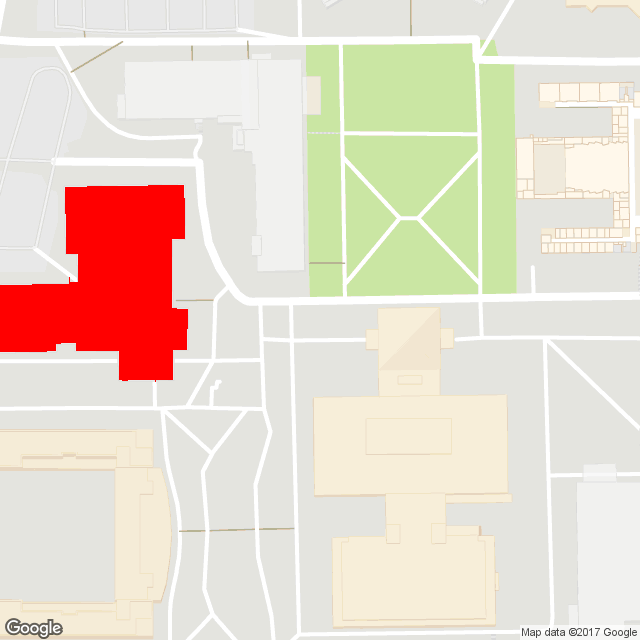
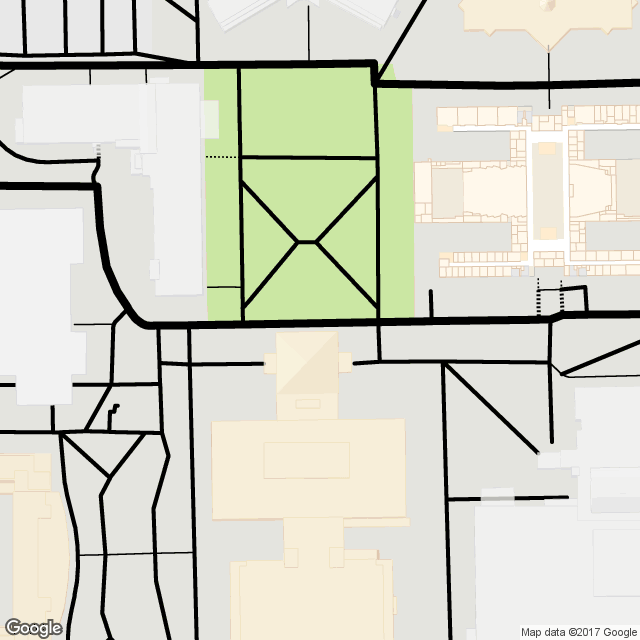
fewa

diff --git a/src/server/processing/ColorOperations.java b/src/server/processing/ColorOperations.java
@@ -111,8 +111,7 @@ public class ColorOperations {
 			if (currRGB == Config.MAPS_BUILDING_RGB)
 				return;
 			
-		} while (currRGB == Config.MAPS_BACKGROUND_RGB || currRGB == Config.MAPS_GRASS_RGB
-				|| currRGB == Config.MAPS_NORMALPATH_RGB);
+		} while ( !Tools.colorIsProbablyBuilding(currRGB, Config.FILLCOLOR_RGB_TOLERANCE));
 		currX--;
 		currY--;
 
@@ -131,12 +130,13 @@ public class ColorOperations {
 			currY = yStack.pop();
 
 			// Above
-			if (currY + 1 > target.getHeight() - 1 || visited[currX][currY + 1] != 2) {
+			if (currY + 1 < target.getHeight() && visited[currX][currY + 1] == 0) {
 				tolerated = false;
 
 				for (int y = currY + 1; y <= currY + 1 + Config.FILLCOLOR_PIXELDIM_TOLERANCE; y++) {
 					if (y > target.getHeight() - 1)
 						break;
+					/*
 					if (visited[currX][y] > 0) {
 						if (visited[currX][y] == 2) {
 							tolerated = true;
@@ -144,15 +144,16 @@ public class ColorOperations {
 						} else
 							continue;
 					}
+					*/
 					neighborRGB = orig.getRGB(currX, y);
-					if (Tools.colorIsProbablyNotBuilding(neighborRGB, Config.FILLCOLOR_RGB_TOLERANCE)) {
+					if (Tools.colorIsProbablyBuilding(neighborRGB, Config.FILLCOLOR_RGB_TOLERANCE)) {
 						tolerated = true;
 						break;
 					}
 				}
 
 				if (tolerated) {
-					target.setRGB(currX, currY + 1, fillRGB);
+					//target.setRGB(currX, currY + 1, fillRGB);
 					visited[currX][currY + 1] = 2;
 					xStack.push(currX);
 					yStack.push(currY + 1);
@@ -161,11 +162,12 @@ public class ColorOperations {
 			}
 
 			// Below
-			if (currY - 1 < 0 || visited[currX][currY - 1] != 2) {
+			if (currY - 1 > -1 &&  visited[currX][currY - 1]  == 0) {
 				tolerated = false;
 				for (int y = currY - 1; y >= currY - 1 - Config.FILLCOLOR_PIXELDIM_TOLERANCE; y--) {
 					if (y < 0)
 						break;
+					/*
 					if (visited[currX][y] > 0) {
 						if (visited[currX][y] == 2) {
 							tolerated = true;
@@ -173,15 +175,16 @@ public class ColorOperations {
 						} else
 							continue;
 					}
+					*/
 					neighborRGB = orig.getRGB(currX, y);
-					if (Tools.colorIsProbablyNotBuilding(neighborRGB, Config.FILLCOLOR_RGB_TOLERANCE)) {
+					if (Tools.colorIsProbablyBuilding(neighborRGB, Config.FILLCOLOR_RGB_TOLERANCE)) {
 						tolerated = true;
 						break;
 					}
 				}
 
 				if (tolerated) {
-					target.setRGB(currX, currY - 1, fillRGB);
+					//target.setRGB(currX, currY - 1, fillRGB);
 					visited[currX][currY - 1] = 2;
 					xStack.push(currX);
 					yStack.push(currY - 1);
@@ -190,11 +193,12 @@ public class ColorOperations {
 			}
 
 			// Right
-			if (currX + 1 > target.getWidth() - 1 || visited[currX + 1][currY] != 2) {
+			if (currX + 1 < target.getWidth() &&  visited[currX + 1][currY]  == 0) {
 				tolerated = false;
 				for (int x = currX + 1; x <= currX + 1 + Config.FILLCOLOR_PIXELDIM_TOLERANCE; x++) {
 					if (x > target.getWidth() - 1)
 						break;
+					/*
 					if (visited[x][currY] > 0) {
 						if (visited[x][currY] == 2) {
 							tolerated = true;
@@ -202,14 +206,15 @@ public class ColorOperations {
 						} else
 							continue;
 					}
+					*/
 					neighborRGB = orig.getRGB(x, currY);
-					if (Tools.colorIsProbablyNotBuilding(neighborRGB, Config.FILLCOLOR_RGB_TOLERANCE)) {
+					if (Tools.colorIsProbablyBuilding(neighborRGB, Config.FILLCOLOR_RGB_TOLERANCE)) {
 						tolerated = true;
 						break;
 					}
 				}
 				if (tolerated) {
-					target.setRGB(currX + 1, currY, fillRGB);
+					//target.setRGB(currX + 1, currY, fillRGB);
 					visited[currX + 1][currY] = 2;
 					xStack.push(currX + 1);
 					yStack.push(currY);
@@ -218,11 +223,12 @@ public class ColorOperations {
 			}
 
 			// Left
-			if (currX - 1 < 0 || visited[currX - 1][currY] != 2) {
+			if (currX - 1 > - 1 &&  visited[currX - 1][currY]  == 0) {
 				tolerated = false;
 				for (int x = currX - 1; x >= currX - 1 - Config.FILLCOLOR_PIXELDIM_TOLERANCE; x--) {
 					if (x < 0)
 						break;
+					/*
 					if (visited[x][currY] > 0) {
 						if (visited[x][currY] == 2) {
 							tolerated = true;
@@ -230,20 +236,33 @@ public class ColorOperations {
 						} else
 							continue;
 					}
+					*/
 					neighborRGB = orig.getRGB(x, currY);
-					if (Tools.colorIsProbablyNotBuilding(neighborRGB, Config.FILLCOLOR_RGB_TOLERANCE)) {
+					if (Tools.colorIsProbablyBuilding(neighborRGB, Config.FILLCOLOR_RGB_TOLERANCE)) {
 						tolerated = true;
 						break;
 					}
 				}
 
 				if (tolerated) {
-					target.setRGB(currX - 1, currY, fillRGB);
+					//target.setRGB(currX - 1, currY, fillRGB);
 					visited[currX - 1][currY] = 2;
 					xStack.push(currX - 1);
 					yStack.push(currY);
 				} else if (currX - 1 >= 0)
 					visited[currX - 1][currY] = 1;
+			}
+			
+			
+			
+		}
+		
+		for (int x = 0; x < visited.length; x++)
+		{
+			for (int y = 0; y < visited[x].length; y++)
+			{
+				if (visited[x][y] == 2)
+					target.setRGB(x, y, fillRGB);
 			}
 		}
 

diff --git a/tests/server/ProcessingTests.java b/tests/server/ProcessingTests.java
@@ -5,6 +5,7 @@ import java.awt.image.BufferedImage;
 
 import org.junit.Test;
 
+import generic.Config;
 import generic.Tools;
 import googlemaps.LatLng;
 import server.processing.ColorOperations;
@@ -92,8 +93,9 @@ public class ProcessingTests {
 	public void fillImageTest() {
 		Color c = new Color(255, 0, 0);
 		System.out.println(c.getRGB());
-		// LatLng buildingPoint = new LatLng(40.249403, -111.651154);
-		LatLng buildingPoint = new LatLng(40.249603, -111.650054);
+		// LatLng buildingPoint = new LatLng(40.249403, -111.651154);  //TALMAGE
+		LatLng buildingPoint = new LatLng(40.249603, -111.650054); //JKB
+		//LatLng buildingPoint = new LatLng(40.249403, -111.650154); //Some part of the path (should produce bad results)
 		LatLng endPoint = new LatLng(40.249218, -111.648338);
 		LatLng center = Tools.getCenter(buildingPoint, endPoint);
 		int sizeX = 640;
@@ -101,10 +103,11 @@ public class ProcessingTests {
 		int zoom = APITools.getAppropriateZoom(buildingPoint, endPoint, sizeX, sizeY);
 		BufferedImage roadmap = server.APITools.DownloadStaticMapImage(buildingPoint, endPoint, sizeX, sizeY, zoom,
 				false);
+		Tools.WriteImage(roadmap, "testImages/roadmapTest4andaHalf.png");
 		double metersPerPixel = APITools.getMetersPerPixel(center.latitude, zoom);
 		LatLng southwest = APITools.getSouthwest(center, metersPerPixel, sizeX, sizeY);
 		LatLng northeast = APITools.getNortheast(center, metersPerPixel, sizeX, sizeY);
-		BufferedImage filled = ColorOperations.filledImage(roadmap, Color.RED, southwest, northeast, buildingPoint);
+		BufferedImage filled = ColorOperations.filledImage(roadmap, new Color(Config.MAPS_BUILDING_RGB), southwest, northeast, buildingPoint);
 
 		Tools.WriteImage(filled, "testImages/roadmapTest4.png");
 	}

diff --git a/src/server/APITools.java b/src/server/APITools.java
@@ -287,6 +287,11 @@ public class APITools {
 		return DownloadStaticMapImage(Tools.getCenter(start, end), sizeX, sizeY, zoom, isSatellite, polyline);
 	}
 
+	private static String getRoadParam()
+	{
+		return "&style=feature:road|color:" + Tools.toRGBHex(Config.MAPS_NORMALPATH_RGB);
+	}
+	
 	public static BufferedImage DownloadStaticMapImage(LatLng center, int sizeX, int sizeY, int zoom, boolean isSatellite, String polyline)
 	{
 		try {
@@ -299,7 +304,7 @@ public class APITools {
 							+ generic.Config.STATICMAP_KEY);
 				else
 					url = new URL(
-							"https://maps.googleapis.com/maps/api/staticmap?maptype=roadmap&style=feature:all|element:labels|visibility:off&zoom="
+							"https://maps.googleapis.com/maps/api/staticmap?maptype=roadmap&style=feature:all|element:labels|visibility:off"+ getRoadParam() + "&zoom="
 									+ zoom + "&center=" + center.toUrlValue() + "&size=" + sizeX + "x" + sizeY + "&key="
 									+ generic.Config.STATICMAP_KEY);
 			} else {
@@ -309,7 +314,7 @@ public class APITools {
 							+ polylineToURLParam(polyline, 3, "red") + "&key=" + generic.Config.STATICMAP_KEY);
 				else
 					url = new URL(
-							"https://maps.googleapis.com/maps/api/staticmap?maptype=roadmap&style=feature:all|element:labels|visibility:off&center="
+							"https://maps.googleapis.com/maps/api/staticmap?maptype=roadmap&style=feature:all|element:labels|visibility:off"+ getRoadParam() +"&center="
 									+ center.toUrlValue() + "&size=" + sizeX + "x" + sizeY
 									+ polylineToURLParam(polyline, 3, "red") + "&key=" + generic.Config.STATICMAP_KEY);
 			}

diff --git a/src/generic/Tools.java b/src/generic/Tools.java
@@ -185,9 +185,12 @@ public class Tools {
 //		}
 	}
 	
-	public static boolean colorIsProbablyNotBuilding(int rgb, int tolerance)
+	public static boolean colorIsProbablyBuilding(int rgb, int tolerance)
 	{
-		return colorIsCloseEnough(rgb, Config.MAPS_WEIRD_OLIVE_PATH, tolerance) || colorIsCloseEnough(rgb, Config.MAPS_BACKGROUND_RGB, tolerance); 
+		return !(colorIsCloseEnough(rgb, Config.MAPS_WEIRD_OLIVE_PATH, tolerance) || 
+				 colorIsCloseEnough(rgb, Config.MAPS_BACKGROUND_RGB, tolerance) ||
+				 colorIsCloseEnough(rgb, Config.MAPS_NORMALPATH_RGB, tolerance) ||
+				 colorIsCloseEnough(rgb, Config.MAPS_GRASS_RGB, tolerance)); 
 	}
 	public static boolean colorIsCloseEnough(int rgb1, int rgb2, int tolerance)
 	{
@@ -211,6 +214,13 @@ public class Tools {
 		return true;
 	}
 
+	public static String toRGBHex(int i)
+	{
+		String res = Integer.toHexString(i);
+		String removeAlpha = res.substring(2, res.length());
+		return "0x" + removeAlpha;
+	}
+	
 	static String readFile(String path, Charset encoding) throws IOException {
 		byte[] encoded = Files.readAllBytes(Paths.get(path));
 		return new String(encoded, encoding);
